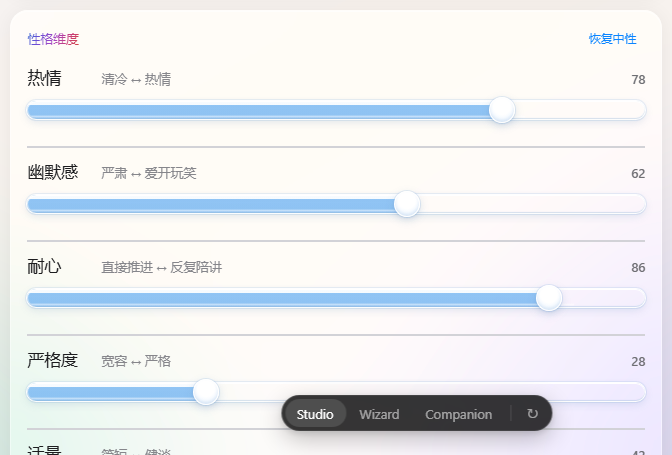
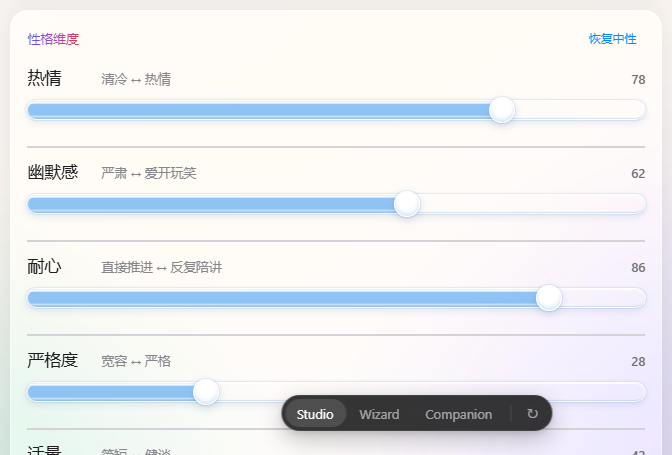
style(proto): 冰块滑条 — 顶部玻璃留白收窄
- 顶部镜面高光带 16% -> 9%（18px 管子里约 1.6px），
  蓝色占的高度变多，上层不再显空
- 内壁顶边的纯白 1 -> 0.75，配合收窄后的高光带，
  避免顶部出现一道空的亮带

进度条的同一处也一起改了（第一次按缩进匹配只中了一处，
用正则补上第二处）。控制台零错误。

diff --git a/prototypes/Costudy-UI-原型.html b/prototypes/Costudy-UI-原型.html
@@ -1015,7 +1015,7 @@ body::before {
 .segmented-item.is-on {
   background: rgba(255, 255, 255, 0.92);
   box-shadow:
-    inset 0 1px 0 rgba(255, 255, 255, 1),
+    inset 0 1px 0 rgba(255, 255, 255, 0.75),
     0 1px 2px rgba(0, 0, 0, 0.08),
     0 3px 8px rgba(0, 0, 0, 0.07);
 }
@@ -1258,7 +1258,7 @@ input[type="range"]::-webkit-slider-runnable-track {
   /* 凸起的关键：顶边亮、底边暗，外侧下方投影 */
   box-shadow:
     0 0 0 0.5px rgba(120, 128, 148, 0.18),
-    inset 0 1px 0 rgba(255, 255, 255, 1),
+    inset 0 1px 0 rgba(255, 255, 255, 0.75),
     inset 0 -1px 0 rgba(0, 0, 0, 0.04),
     0 2px 5px rgba(0, 0, 0, 0.1),
     0 1px 1px rgba(0, 0, 0, 0.05);
@@ -1307,7 +1307,7 @@ input[type="range"]:active::-webkit-slider-thumb {
   );
   box-shadow:
     0 0 0 0.5px rgba(120, 128, 148, 0.18),
-    inset 0 1px 0 rgba(255, 255, 255, 1),
+    inset 0 1px 0 rgba(255, 255, 255, 0.75),
     inset 0 -1px 0 rgba(0, 0, 0, 0.04),
     0 2px 5px rgba(0, 0, 0, 0.1);
   overflow: hidden;
@@ -1802,8 +1802,8 @@ input[type="range"]::-webkit-slider-runnable-track {
     linear-gradient(
       180deg,
       rgba(255, 255, 255, 0.92) 0%,
-      rgba(255, 255, 255, 0.92) 16%,
-      rgba(255, 255, 255, 0) 17%,
+      rgba(255, 255, 255, 0.92) 9%,
+      rgba(255, 255, 255, 0) 10%,
       rgba(255, 255, 255, 0) 100%
     ),
     /* ② 底部反光带：冰面从下方折回来的光 */
@@ -1833,7 +1833,7 @@ input[type="range"]::-webkit-slider-runnable-track {
   box-shadow:
     0 0 0 1px rgba(255, 255, 255, 0.95),
     0 0 0 2px rgba(148, 186, 228, 0.22),
-    inset 0 1px 0 rgba(255, 255, 255, 1),
+    inset 0 1px 0 rgba(255, 255, 255, 0.75),
     inset 0 -1px 1px rgba(116, 158, 206, 0.3),
     inset 1px 0 1px rgba(255, 255, 255, 0.7),
     inset -1px 0 1px rgba(255, 255, 255, 0.7),
@@ -1885,7 +1885,7 @@ input[type="range"]:active::-webkit-slider-thumb {
     linear-gradient(
       180deg,
       rgba(255, 255, 255, 0.92) 0%,
-      rgba(255, 255, 255, 0.92) 16%,
+      rgba(255, 255, 255, 0.92) 9%,
       rgba(255, 255, 255, 0) 17%
     ),
     linear-gradient(
@@ -1902,7 +1902,7 @@ input[type="range"]:active::-webkit-slider-thumb {
   box-shadow:
     0 0 0 1px rgba(255, 255, 255, 0.95),
     0 0 0 2px rgba(148, 186, 228, 0.22),
-    inset 0 1px 0 rgba(255, 255, 255, 1),
+    inset 0 1px 0 rgba(255, 255, 255, 0.75),
     inset 0 -1px 1px rgba(116, 158, 206, 0.3),
     0 3px 9px rgba(96, 135, 180, 0.18);
 }

diff --git a/prototypes/costudy-ui/liquid-glass.css b/prototypes/costudy-ui/liquid-glass.css
@@ -215,7 +215,7 @@ body::before {
 .segmented-item.is-on {
   background: rgba(255, 255, 255, 0.92);
   box-shadow:
-    inset 0 1px 0 rgba(255, 255, 255, 1),
+    inset 0 1px 0 rgba(255, 255, 255, 0.75),
     0 1px 2px rgba(0, 0, 0, 0.08),
     0 3px 8px rgba(0, 0, 0, 0.07);
 }
@@ -458,7 +458,7 @@ input[type="range"]::-webkit-slider-runnable-track {
   /* 凸起的关键：顶边亮、底边暗，外侧下方投影 */
   box-shadow:
     0 0 0 0.5px rgba(120, 128, 148, 0.18),
-    inset 0 1px 0 rgba(255, 255, 255, 1),
+    inset 0 1px 0 rgba(255, 255, 255, 0.75),
     inset 0 -1px 0 rgba(0, 0, 0, 0.04),
     0 2px 5px rgba(0, 0, 0, 0.1),
     0 1px 1px rgba(0, 0, 0, 0.05);
@@ -507,7 +507,7 @@ input[type="range"]:active::-webkit-slider-thumb {
   );
   box-shadow:
     0 0 0 0.5px rgba(120, 128, 148, 0.18),
-    inset 0 1px 0 rgba(255, 255, 255, 1),
+    inset 0 1px 0 rgba(255, 255, 255, 0.75),
     inset 0 -1px 0 rgba(0, 0, 0, 0.04),
     0 2px 5px rgba(0, 0, 0, 0.1);
   overflow: hidden;
@@ -1002,8 +1002,8 @@ input[type="range"]::-webkit-slider-runnable-track {
     linear-gradient(
       180deg,
       rgba(255, 255, 255, 0.92) 0%,
-      rgba(255, 255, 255, 0.92) 16%,
-      rgba(255, 255, 255, 0) 17%,
+      rgba(255, 255, 255, 0.92) 9%,
+      rgba(255, 255, 255, 0) 10%,
       rgba(255, 255, 255, 0) 100%
     ),
     /* ② 底部反光带：冰面从下方折回来的光 */
@@ -1033,7 +1033,7 @@ input[type="range"]::-webkit-slider-runnable-track {
   box-shadow:
     0 0 0 1px rgba(255, 255, 255, 0.95),
     0 0 0 2px rgba(148, 186, 228, 0.22),
-    inset 0 1px 0 rgba(255, 255, 255, 1),
+    inset 0 1px 0 rgba(255, 255, 255, 0.75),
     inset 0 -1px 1px rgba(116, 158, 206, 0.3),
     inset 1px 0 1px rgba(255, 255, 255, 0.7),
     inset -1px 0 1px rgba(255, 255, 255, 0.7),
@@ -1085,7 +1085,7 @@ input[type="range"]:active::-webkit-slider-thumb {
     linear-gradient(
       180deg,
       rgba(255, 255, 255, 0.92) 0%,
-      rgba(255, 255, 255, 0.92) 16%,
+      rgba(255, 255, 255, 0.92) 9%,
       rgba(255, 255, 255, 0) 17%
     ),
     linear-gradient(
@@ -1102,7 +1102,7 @@ input[type="range"]:active::-webkit-slider-thumb {
   box-shadow:
     0 0 0 1px rgba(255, 255, 255, 0.95),
     0 0 0 2px rgba(148, 186, 228, 0.22),
-    inset 0 1px 0 rgba(255, 255, 255, 1),
+    inset 0 1px 0 rgba(255, 255, 255, 0.75),
     inset 0 -1px 1px rgba(116, 158, 206, 0.3),
     0 3px 9px rgba(96, 135, 180, 0.18);
 }
